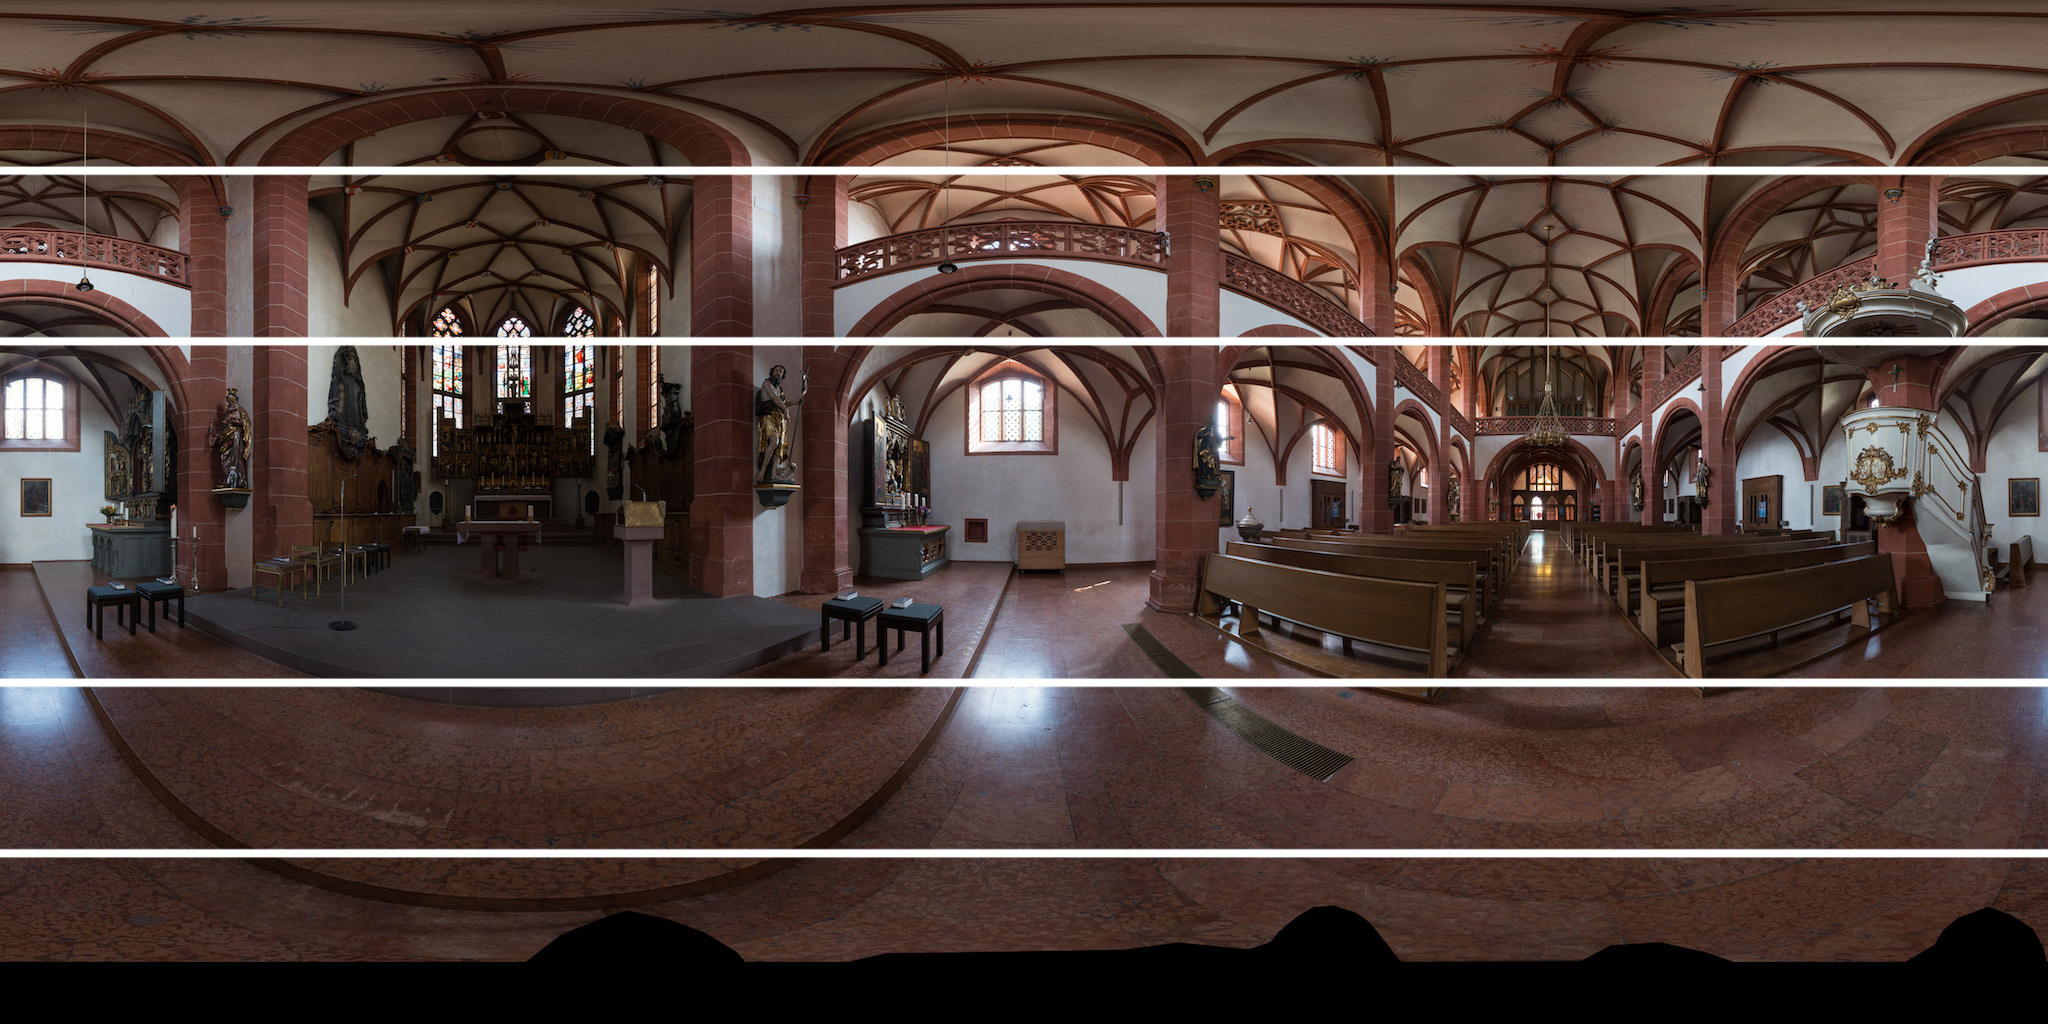
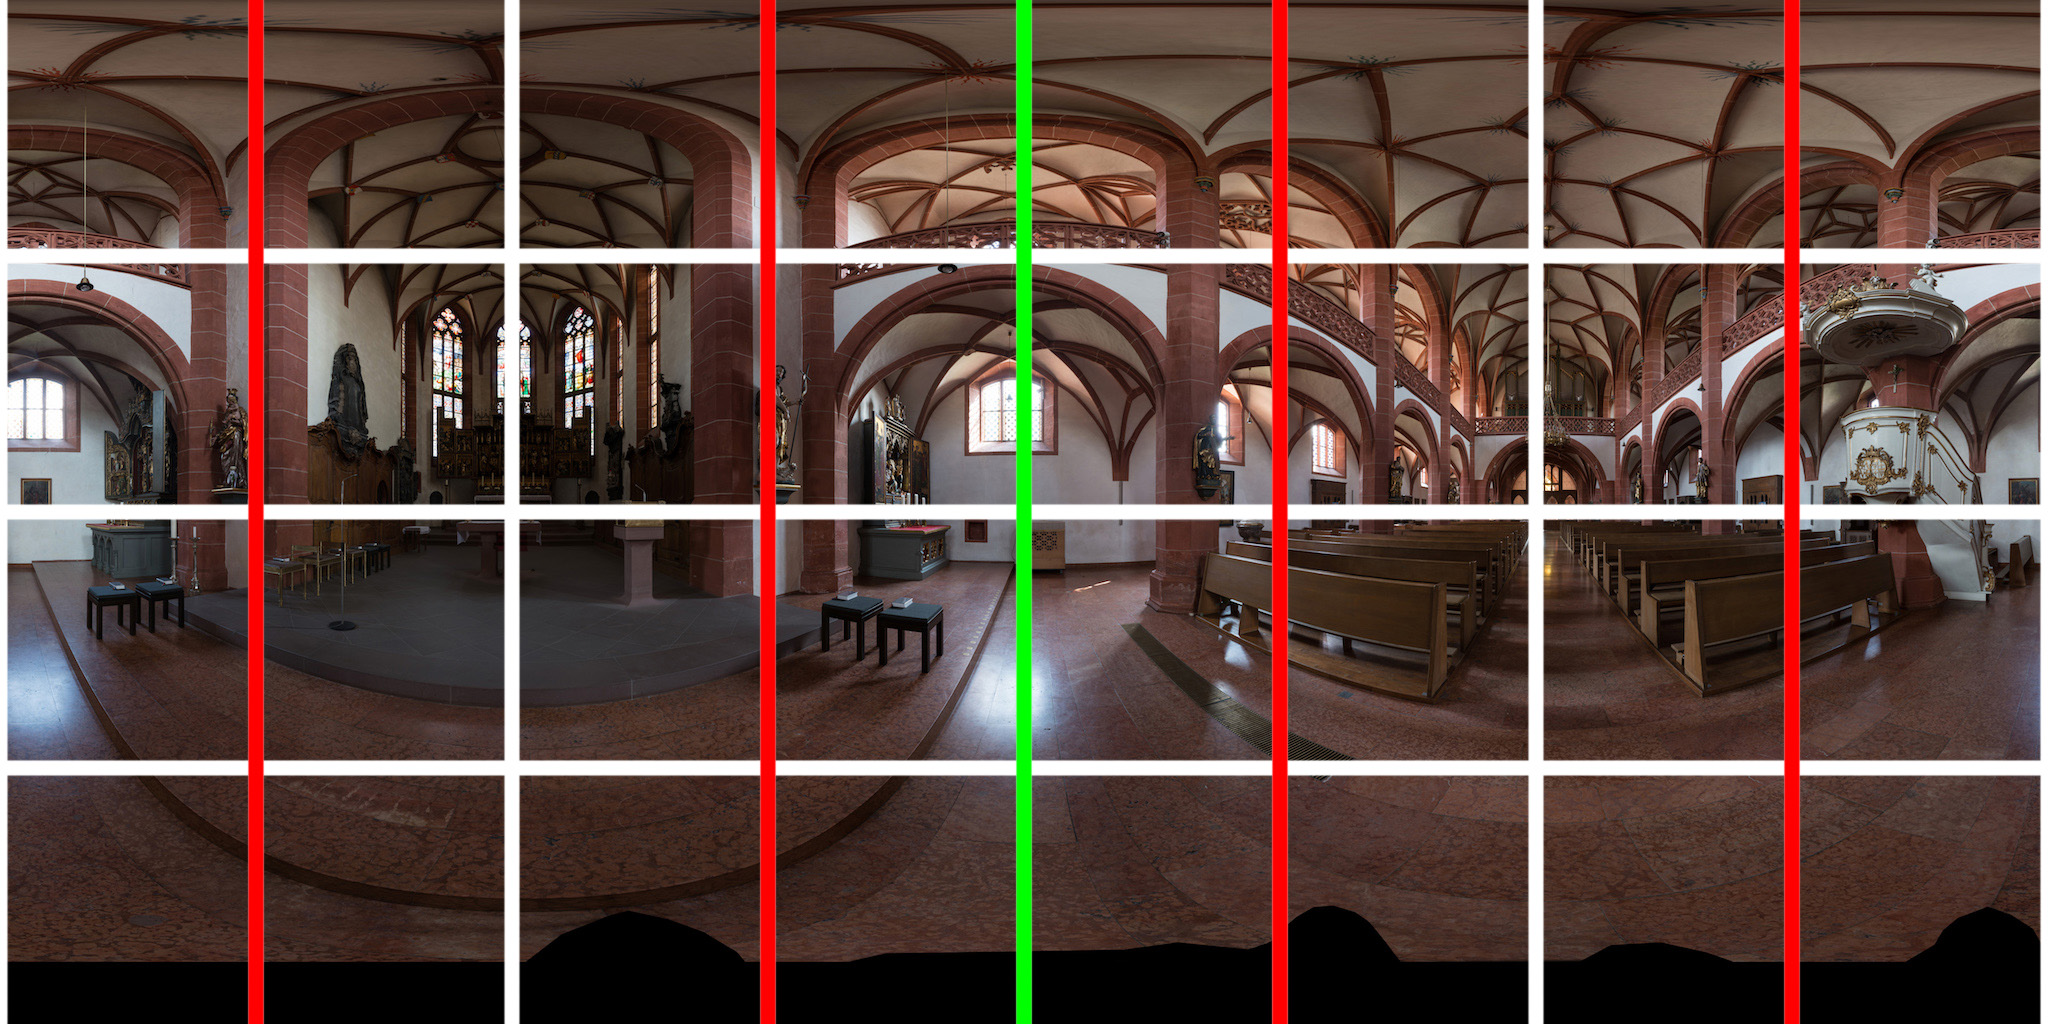
wip

Changed region(s): [[0.0, 0.0, 1.0, 1.0]]

diff --git a/src/js/create.js b/src/js/create.js
@@ -1,4 +1,3 @@
-
 VRCreateSphere = require('./VRCreateSphere.js');
 
 // via: http://stackoverflow.com/questions/22575636/how-to-check-if-a-canvas-element-has-been-tainted/22580129#22580129
@@ -61,54 +60,55 @@ var imageNotOK = function(img) {
   console.log(msg);
 }
 
-var proceed = function(img) {
-  console.log("PROCEEDING");
-  vrCreateSphere = new VRCreateSphere();
-  sp = vrCreateSphere.createSphere(document.getElementById("sphere"),img);
-  vrCreateSphere.tiltTurn(20,90);
-  sp.renderFrame(0);
+var UI = function() {
+  var self=this;
+  this.hfovButton = document.getElementById("hfov");
+  this.vfovButton = document.getElementById("vfov");
+  this.xposButton = document.getElementById("xpos");
+  this.yposButton = document.getElementById("ypos");
+  this.vrCreateSphere = null;
+  this.sphereElem = null;
+
+  this.paramChange = function() {
+    var xpos = parseFloat(self.xposButton.value) + 360;
+    var ypos = parseFloat(self.yposButton.value) + 360;
+
+    self.vrCreateSphere.tiltTurn(ypos, xpos);
+    self.sphereElem.renderFrame(0);
+  }
+
+  this.proceed = function(img) {
+    console.log("PROCEEDING");
+    self.vrCreateSphere = new VRCreateSphere();
+    self.sphereElem = self.vrCreateSphere.createSphere(document.getElementById("sphere"),img);
+    self.vrCreateSphere.tiltTurn(0,0);
+    self.sphereElem.renderFrame(0);
+  }
+
+  this.loadImage = function() {
+    console.log("LOADIMAGE");
+
+    //var imageURL = document.getElementById('imageURL').value;
+    var imageURL = "../src/assets/rheingauer_dom.jpg";
+    var img = newImage(imageURL, imageNotOK, self.proceed);
+  }
+
+  this.init = function() {
+     var loadButton = document.getElementById("loadImage");
+     loadButton.onclick = this.loadImage;
+
+     this.hfovButton.oninput = this.paramChange;
+     this.hfovButton.onchange = this.paramChange;
+     this.vfovButton.oninput = this.paramChange;
+     this.vfovButton.onchange = this.paramChange;
+     this.xposButton.oninput = this.paramChange;
+     this.xposButton.onchange = this.paramChange;
+     this.yposButton.oninput = this.paramChange;
+     this.yposButton.onchange = this.paramChange;
+
+    //  paramChange();
+   }
 }
 
-
-var loadImage = function() {
-  console.log("LOADIMAGE");
-
-  //var imageURL = document.getElementById('imageURL').value;
-  var imageURL = "http://localhost:8000/src/assets/rheingauer_dom.jpg";
-  var img = newImage(imageURL, imageNotOK, proceed);
-}
-
-var paramChange = function() {
-  var hfovButton = document.getElementById("hfov");
-  var vfovButton = document.getElementById("vfov");
-  var xposButton = document.getElementById("xpos");
-  var yposButton = document.getElementById("ypos");
-  var xpos = parseFloat(xposButton.value) + 360;
-  var ypos = parseFloat(yposButton.value) + 360;
-
-  vrCreateSphere.tiltTurn(ypos, xpos);
-  sp.renderFrame(0);
-}
-
-var init = function() {
-   var loadButton = document.getElementById("loadImage");
-   loadButton.onclick = loadImage;
-
-   var hfovButton = document.getElementById("hfov");
-   var vfovButton = document.getElementById("vfov");
-   var xposButton = document.getElementById("xpos");
-   var yposButton = document.getElementById("ypos");
-
-   hfovButton.oninput = paramChange;
-   hfovButton.onchange = paramChange;
-   vfovButton.oninput = paramChange;
-   vfovButton.onchange = paramChange;
-   xposButton.oninput = paramChange;
-   xposButton.onchange = paramChange;
-   yposButton.oninput = paramChange;
-   yposButton.onchange = paramChange;
-
-  //  paramChange();
-}
-
-init();
+var ui = new UI();
+ui.init();

diff --git a/src/js/VRCreateSphere.js b/src/js/VRCreateSphere.js
@@ -228,22 +228,21 @@ var calculateVector = function(h, v) {
 
     // Do a couple of rotations on L
 
-    var lx = L[X];
-    var srz = Math.sin(rz);
-    var crz = Math.cos(rz);
-    L[X] = lx * crz - L[Y] * srz;
-    L[Y] = lx * srz + L[Y] * crz;
-
-    //      calcL(lx, L[Y], rz);
-
     var lz;
     lz = L[Z];
+    var lx = L[X];
+
     var sry = Math.sin(ry);
     var cry = Math.cos(ry);
     L[Z] = lz * cry - L[Y] * sry;
     L[Y] = lz * sry + L[Y] * cry;
 
-    //     calcL(lz, L[Y], ry);
+    var srz = Math.sin(rz);
+    var crz = Math.cos(rz);
+    L[X] = lx * crz - L[Y] * srz;
+    L[Y] = lx * srz + L[Y] * crz;
+
+
 
     // Calculate the position that this location on the sphere
     // coresponds to on the texture
@@ -395,16 +394,22 @@ var sphere = function() {
   };
 };
 
-function copyImageToBuffer(aImg) {
+function copyImageToBuffer(aImg, u, vu) {
   gImage = document.createElement('canvas');
   textureWidth = aImg.naturalWidth;
   textureHeight = aImg.naturalHeight;
   gImage.width = textureWidth;
   gImage.height = textureHeight;
 
+  var x = u[0]*textureWidth;
+  var y = u[1]*textureHeight;
+  var w = vu[0]*textureWidth;
+  var h = vu[1]*textureHeight;
+
   gCtxImg = gImage.getContext("2d");
-  gCtxImg.clearRect(0, 0, textureHeight, textureWidth);
-  gCtxImg.drawImage(aImg, 0, 0);
+  gCtxImg.clearRect(0, 0, textureWidth, textureHeight);
+  gCtxImg.drawImage(aImg, x, y, w, h);
+  //gCtxImg.drawImage(aImg, 0, 0);
   textureImageData = gCtxImg.getImageData(0, 0, textureHeight, textureWidth);
 
   hs_ch = (hs / size);
@@ -436,11 +441,7 @@ var VRCreateSphere = function() {
     gCtx = gCanvas.getContext("2d");
     canvasImageData = gCtx.createImageData(size, size);
 
-    ry = 90 + opts.tilt;
-    rz = 180 + opts.turn;
-
-    RY = (90 - ry);
-    RZ = (180 - rz);
+    this.tiltTurn(opts.tilt, opts.turn);
 
     hs_ch = (hs / size);
     vs_cv = (vs / size);
@@ -451,7 +452,7 @@ var VRCreateSphere = function() {
     b2 = Math.pow(b, 2);
 
 
-    copyImageToBuffer(img);
+    copyImageToBuffer(img, [0.25,0.25], [0.5,0.5]);
     var sp = sphere();
     return sp;
     // var earth = sphere();

diff --git a/src/js/VRtwglQuadStereoProjection.js b/src/js/VRtwglQuadStereoProjection.js
@@ -3,6 +3,7 @@ VRRenderModes = require('./VRRenderModes.js');
 VRLookController = require('./VRControllers.js');
 VRDeviceManager = require('./VRDeviceManager.js');
 VRCanvasFactory = require('./VRCanvasFactory.js');
+VRRotMath = require('./VRRotMath.js');
 Util = require('./VRUtil.js');
 
 twgl = require('../js-ext/twgl-full.js');
@@ -215,6 +216,7 @@ VRtwglQuadStereoProjection = function() {
   this.textureLoadStartAnim = Date.now();
   this.textureLoadEndAnim = this.textureLoadStartAnim + 1000;
   this.texReady = false;
+  this.rotMath = new VRRotMath();
 
   this.pickResolution = function() {
     var tmpCanvas = document.createElement('canvas');
@@ -431,12 +433,7 @@ VRtwglQuadStereoProjection = function() {
   }
 
   this.createOrientation = function(pitch, yaw) {
-    var mat = twgl.m4.identity();
-    var axisPitch = twgl.v3.create(0,0,1);
-    twgl.m4.axisRotate(mat, axisPitch, pitch, mat);
-    var axisYaw = twgl.v3.create(0,1,0);
-    twgl.m4.axisRotate(mat, axisYaw, yaw, mat);
-    return mat;
+    return this.rotMath.rotateZX(pitch, yaw);
   }
 
   this.texturesLoaded = function(err, textures, sources) {

diff --git a/src/js/VRRotMath.js b/src/js/VRRotMath.js
@@ -1,5 +1,33 @@
 twgl = require('../js-ext/twgl-full.js');
 
+function rotateZX (pitch, yaw) {
+  var mat = twgl.m4.identity();
+  var axisPitch = twgl.v3.create(0,0,1);
+  twgl.m4.axisRotate(mat, axisPitch, pitch, mat);
+  var axisYaw = twgl.v3.create(0,1,0);
+  twgl.m4.axisRotate(mat, axisYaw, yaw, mat);
+  return mat;
+}
+
+
+function rotateZXPrime(pitch, yaw) {
+  var cP = Math.cos(pitch);
+  var sP = Math.sin(pitch);
+  var zrot = [cP, sP,0,0,
+            -sP, cP,0,0,
+            0,0,1,0,
+            0,0,0,1];
+  var cY = Math.cos(yaw);
+  var sY = Math.sin(yaw);
+
+  var yrot = [cY, 0, -sY, 0,
+              0, 1, 0, 0,
+              sY, 0, cY, 0,
+              0, 0, 0, 1];
+
+  return twgl.m4.multiply(zrot, yrot);
+}
+
 //
 // via: https://github.com/fieldOfView/krpano_fovplugins/blob/master/gyro/source/gyro.source.js
 //
@@ -87,6 +115,10 @@ VRRotMath = function() {
 
   this.matToEuler = function(mat) {
     return _matToEuler(mat);
+  }
+
+  this.rotateZX = function(pitch, yaw) {
+    return rotateZX(pitch, yaw);
   }
 }
 

diff --git a/testvrone.html b/testvrone.html
@@ -64,7 +64,10 @@ div.stretchy-wrapper > div {
 <div class="stretchy-wrapper"><div>
   <story>
     <scene name="intro">
-      <photo src="rhode_island_stereo.jpg" isStereo="true" sphereParams="66,66,0,0" texParams="0,0,0.5,1.0,0.5,0,1,1"/>
+      <photo src="src/assets/rheingauer_dom_crv.jpg" isStereo="false" sphereParams="360,180,0,0"/>
+      <photo src="src/assets/rhode_island_stereo.jpg" isStereo="true" sphereParams="90,90,0,0" texParams="0,0,0.5,1.0,0.5,0,1,1"/>
+      <photo src="src/assets/rhode_island_stereo.jpg" isStereo="true" sphereParams="90,90,90,0" texParams="0,0,0.5,1.0,0.5,0,1,1"/>
+      <photo src="src/assets/rhode_island_stereo.jpg" isStereo="true" sphereParams="90,90,0,90" texParams="0,0,0.5,1.0,0.5,0,1,1"/>
     </scene>
   </story>
 </div></div>

diff --git a/create/index.html b/create/index.html
@@ -88,7 +88,7 @@
   </div>
 </div>
 
-<script src="../bin/VRcreate.js"></script>
+<script src="../bin/vrCreate.js"></script>
 
 </body>
 </html>
